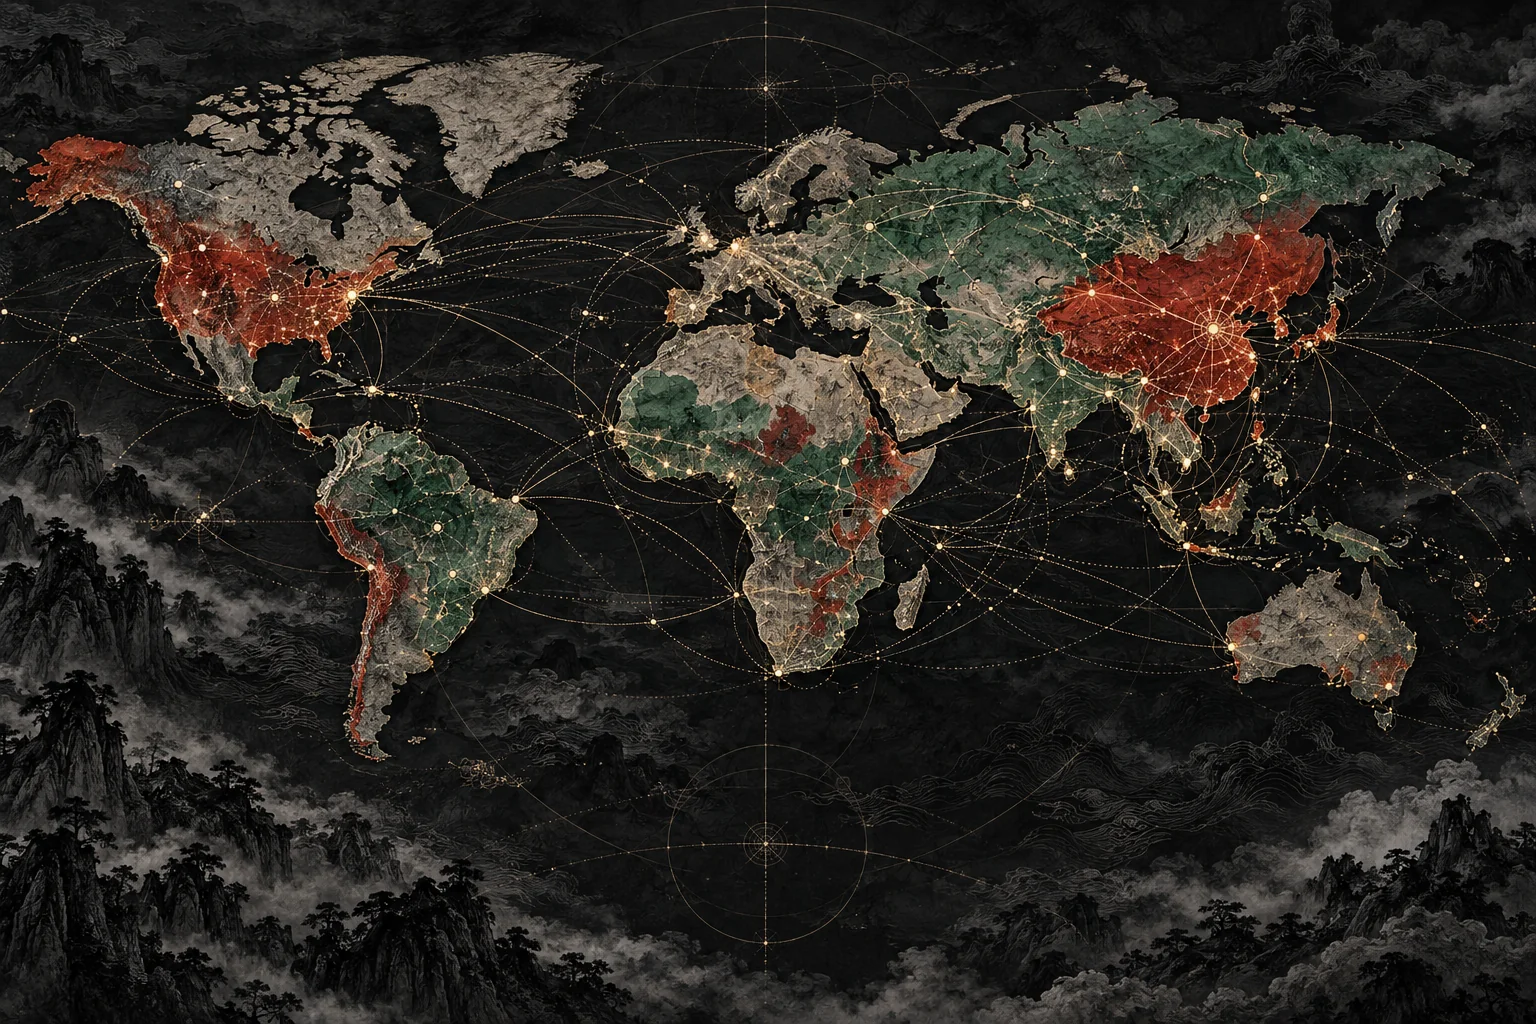
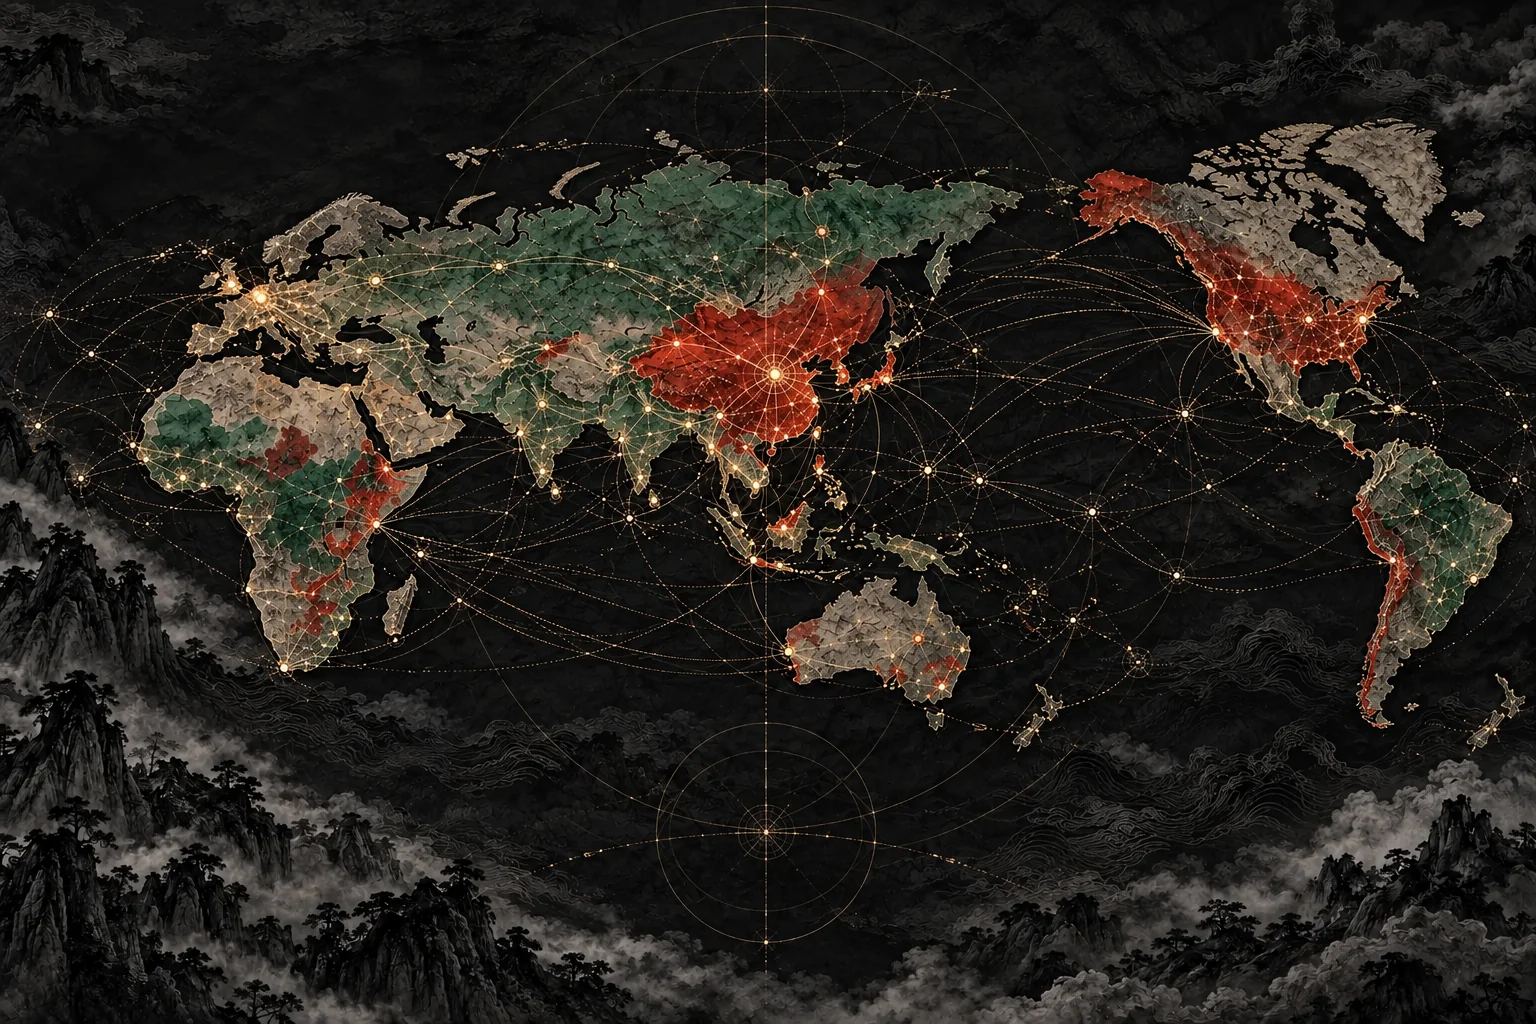
Center China in world map

diff --git a/index.html b/index.html
@@ -26,8 +26,8 @@ permalink: /
     <figure class="world-map">
       <img src="{{ '/images/cyber-map/image-1.webp' | relative_url }}" alt="以水墨地形和数据航线表现的全球人工智能势力图" width="1536" height="1024">
       <figcaption>AI 天下势力图 · 乙巳卷</figcaption>
-      <span class="map-label map-label--west">北美诸侯<small>模型与芯片</small></span>
-      <span class="map-label map-label--east">东土群雄<small>应用与市场</small></span>
+      <span class="map-label map-label--north-america">北美诸侯<small>模型与芯片</small></span>
+      <span class="map-label map-label--china">东土群雄<small>应用与市场</small></span>
       <span class="map-label map-label--europe">欧洲列席<small>规则与治理</small></span>
     </figure>
 

diff --git a/assets/css/main.css b/assets/css/main.css
@@ -379,19 +379,20 @@ a:hover {
   font-size: 8px;
 }
 
-.map-label--west {
-  top: 33%;
-  left: 13%;
+.map-label--north-america {
+  top: 31%;
+  right: 12%;
 }
 
-.map-label--east {
+.map-label--china {
   top: 38%;
-  right: 9%;
+  left: 50%;
+  transform: translateX(-50%);
 }
 
 .map-label--europe {
-  top: 24%;
-  left: 50%;
+  top: 29%;
+  left: 25%;
 }
 
 .lead-story {
@@ -1018,7 +1019,8 @@ a:hover {
     font-size: 12px;
   }
 
-  .map-label--europe {
+  .map-label--europe,
+  .map-label--north-america {
     display: none;
   }
 
